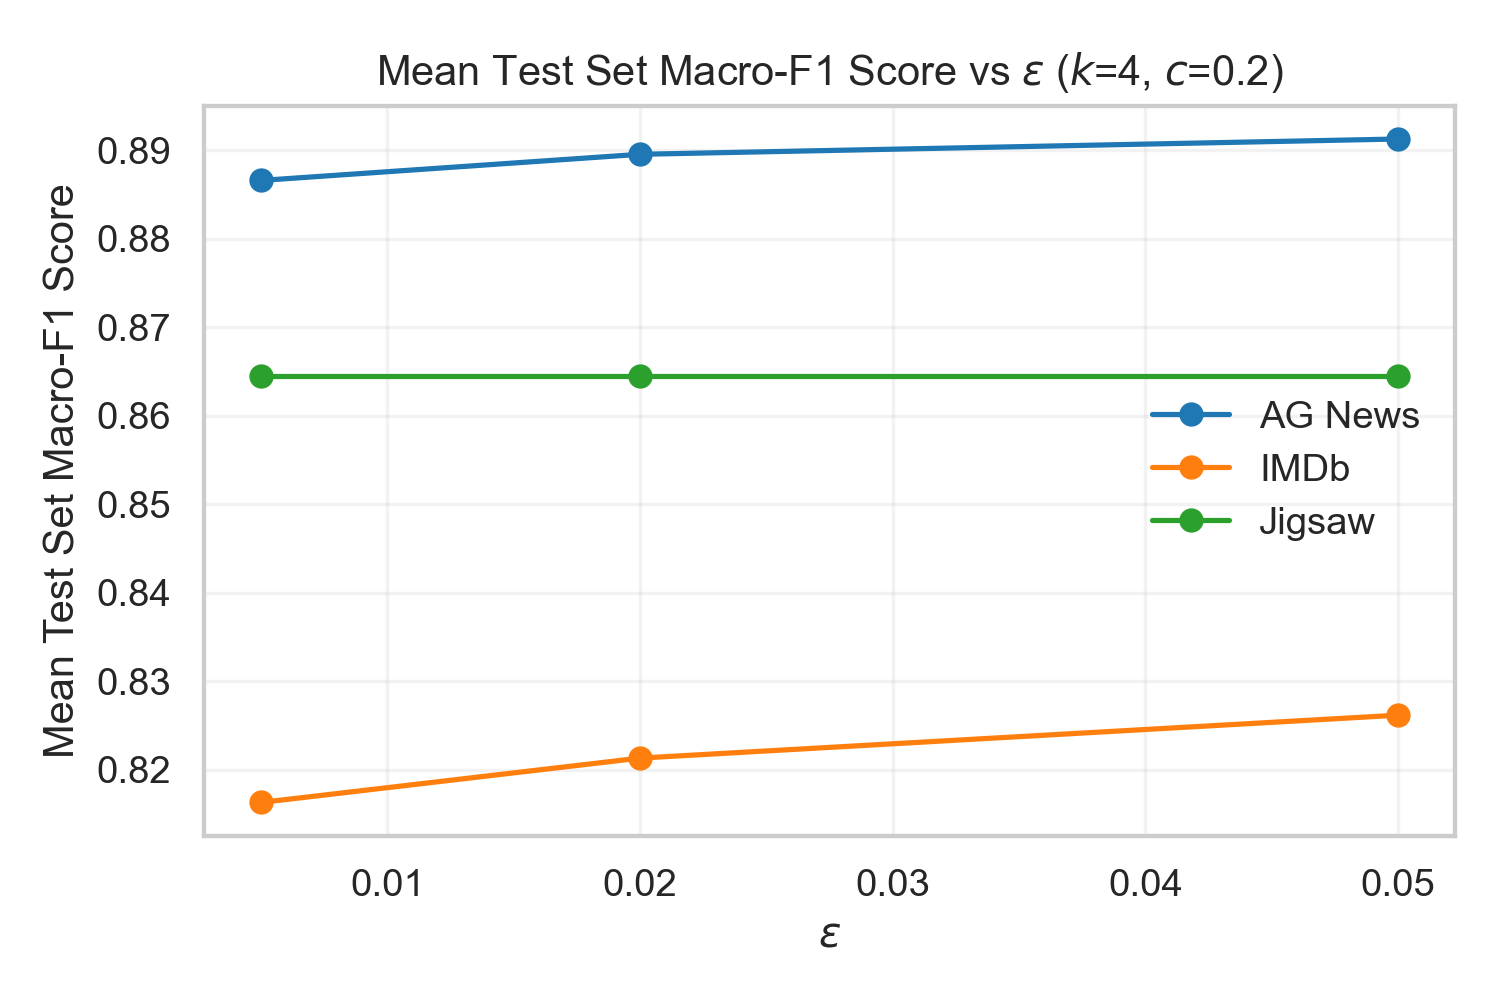
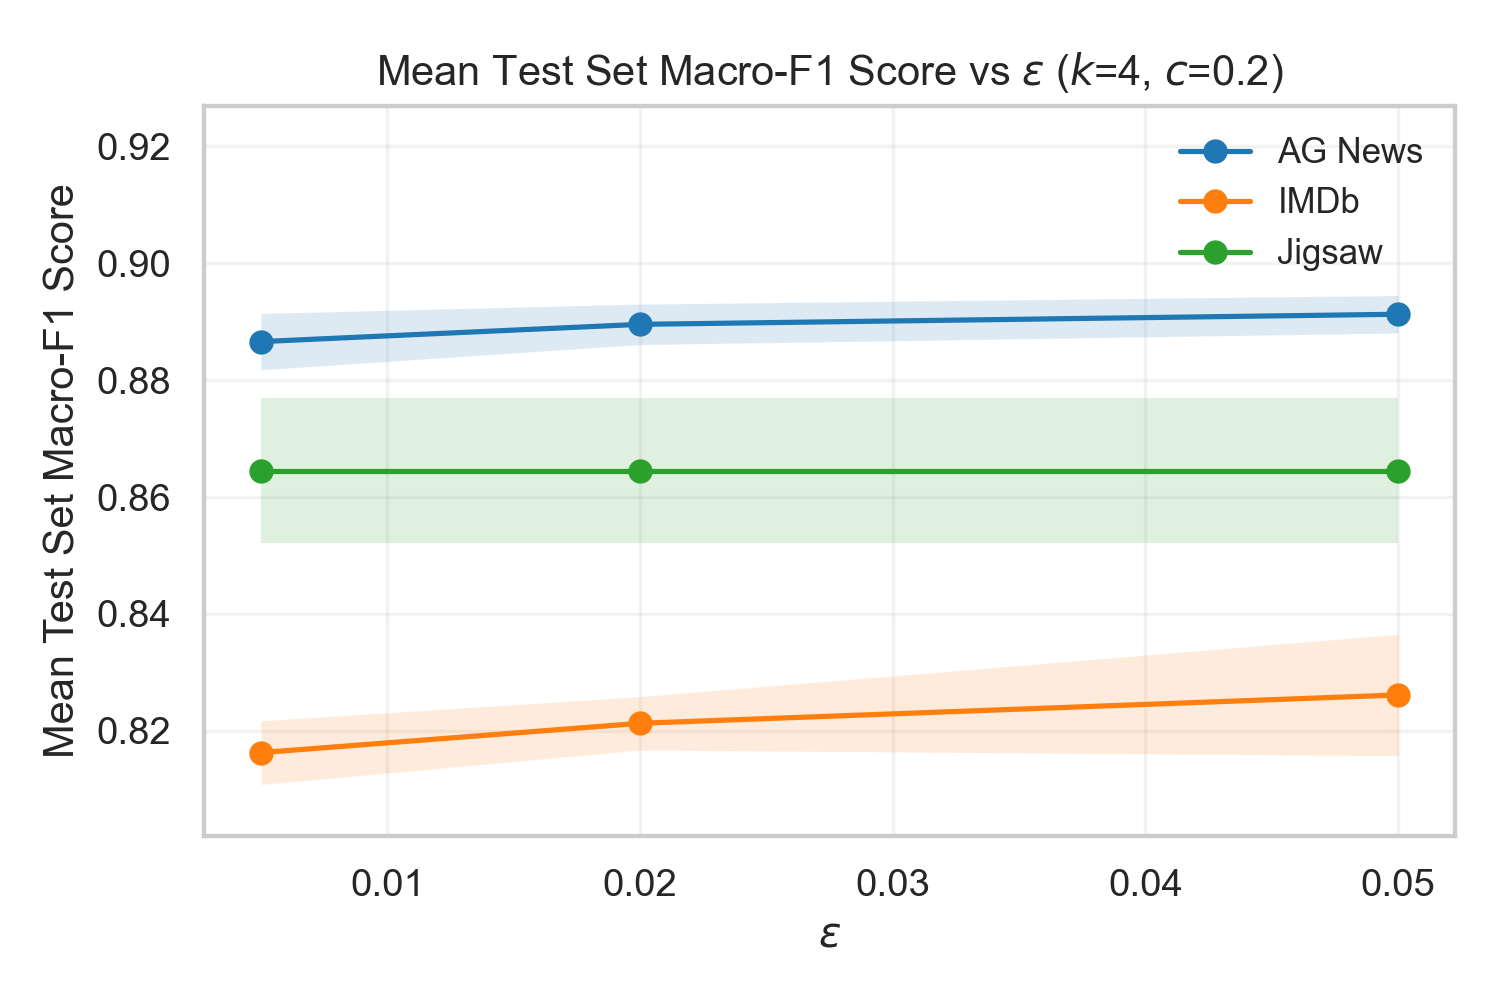
Enhance figure_plotter.py to include standard deviation in summary table and hyperparameter variation plots

diff --git a/figure_plotter.py b/figure_plotter.py
@@ -104,18 +104,25 @@ def get_summary_table(experiments_df: pd.DataFrame, hybrid_hyper: dict):
                 total_time = sum(round['training_time'] for round in round_val_stats)
                 training_times.append(total_time)
 
-            avg_f1 = filtered_df['test_f1_score'].mean()
-            avg_accuracy = filtered_df['test_accuracy'].mean()
+            avg_f1 = filtered_df['test_f1_score'].mean()*100
+            std_f1 = filtered_df['test_f1_score'].std()*100
+
+            avg_accuracy = filtered_df['test_accuracy'].mean()*100
+            std_accuracy = filtered_df['test_accuracy'].std()*100
+
             avg_time = np.mean(training_times)
+            std_time = np.std(training_times)
+
             avg_total_rounds = filtered_df['total_rounds'].mean()
+            std_total_rounds = filtered_df['total_rounds'].std()
 
             summary_data.append({
                 'Dataset': dataset_names.get(dataset, dataset),
                 'Strategy': strategy_names.get(strategy, strategy),
-                'Avg Test Set Macro-F1 Score': f"{avg_f1:.4f}",
-                'Avg Test Set Accuracy': f"{avg_accuracy:.4f}",
-                'Avg Training Time (sec)': f"{avg_time:.2f}",
-                'Avg Total Rounds': f"{avg_total_rounds:.2f}"
+                'Avg Test Set Macro-F1 Score': f"{avg_f1:.2f}% ± {std_f1:.2f}%",
+                'Avg Test Set Accuracy': f"{avg_accuracy:.2f}% ± {std_accuracy:.2f}%",
+                'Avg Training Time (sec)': f"{avg_time:.2f} ± {std_time:.2f}",
+                'Avg Total Rounds': f"{avg_total_rounds:.2f} ± {std_total_rounds:.2f}"
             })
 
     summary_df = pd.DataFrame(summary_data)
@@ -233,6 +240,8 @@ def plot_hybrid_hyper_variations(experiments_df: pd.DataFrame, best_hybrid_hyper
     for param in best_hybrid_hyper.keys():
         plt.figure(figsize=figsize)
         color_map = plt.get_cmap(cmap)
+        y_lim_lower = 0.0
+        y_lim_upper = 1.0
 
         for i, dataset in enumerate(experiments_df['dataset'].unique()):
             subset = experiments_df[
@@ -248,13 +257,25 @@ def plot_hybrid_hyper_variations(experiments_df: pd.DataFrame, best_hybrid_hyper
             plt.plot(means.index, means.values, marker='o', label=dataset_names.get(dataset, dataset),
                      color=color_map(i))
 
+            # Std band (mean +- std)
+            stds = subset.groupby(param)['test_f1_score'].std()
+            lower, upper = means - stds, means + stds
+            plt.fill_between(means.index, lower, upper, color=color_map(i), alpha=0.15, linewidth=0)
+
+            # Buffering the y limits for legend aesthetics
+            band_uppers = means + stds
+            band_lowers = means - stds
+            y_lim_upper = band_uppers.max() + 0.05
+            y_lim_lower = band_lowers.min() - 0.05
+
         plt.xlabel(hyperparams_names[param])
         plt.ylabel('Mean Test Set Macro-F1 Score')
+        plt.ylim(y_lim_lower, y_lim_upper)
 
         title_postfix = ', '.join([f"{hyperparams_names[k]}={v}" for k, v in best_hybrid_hyper.items() if k != param])
         plt.title(f'Mean Test Set Macro-F1 Score vs {hyperparams_names[param]} ({title_postfix})')
 
-        plt.legend(frameon=False)
+        plt.legend(frameon=False, fontsize='small')
         plt.grid(alpha=0.25)
         plt.tight_layout()
 
